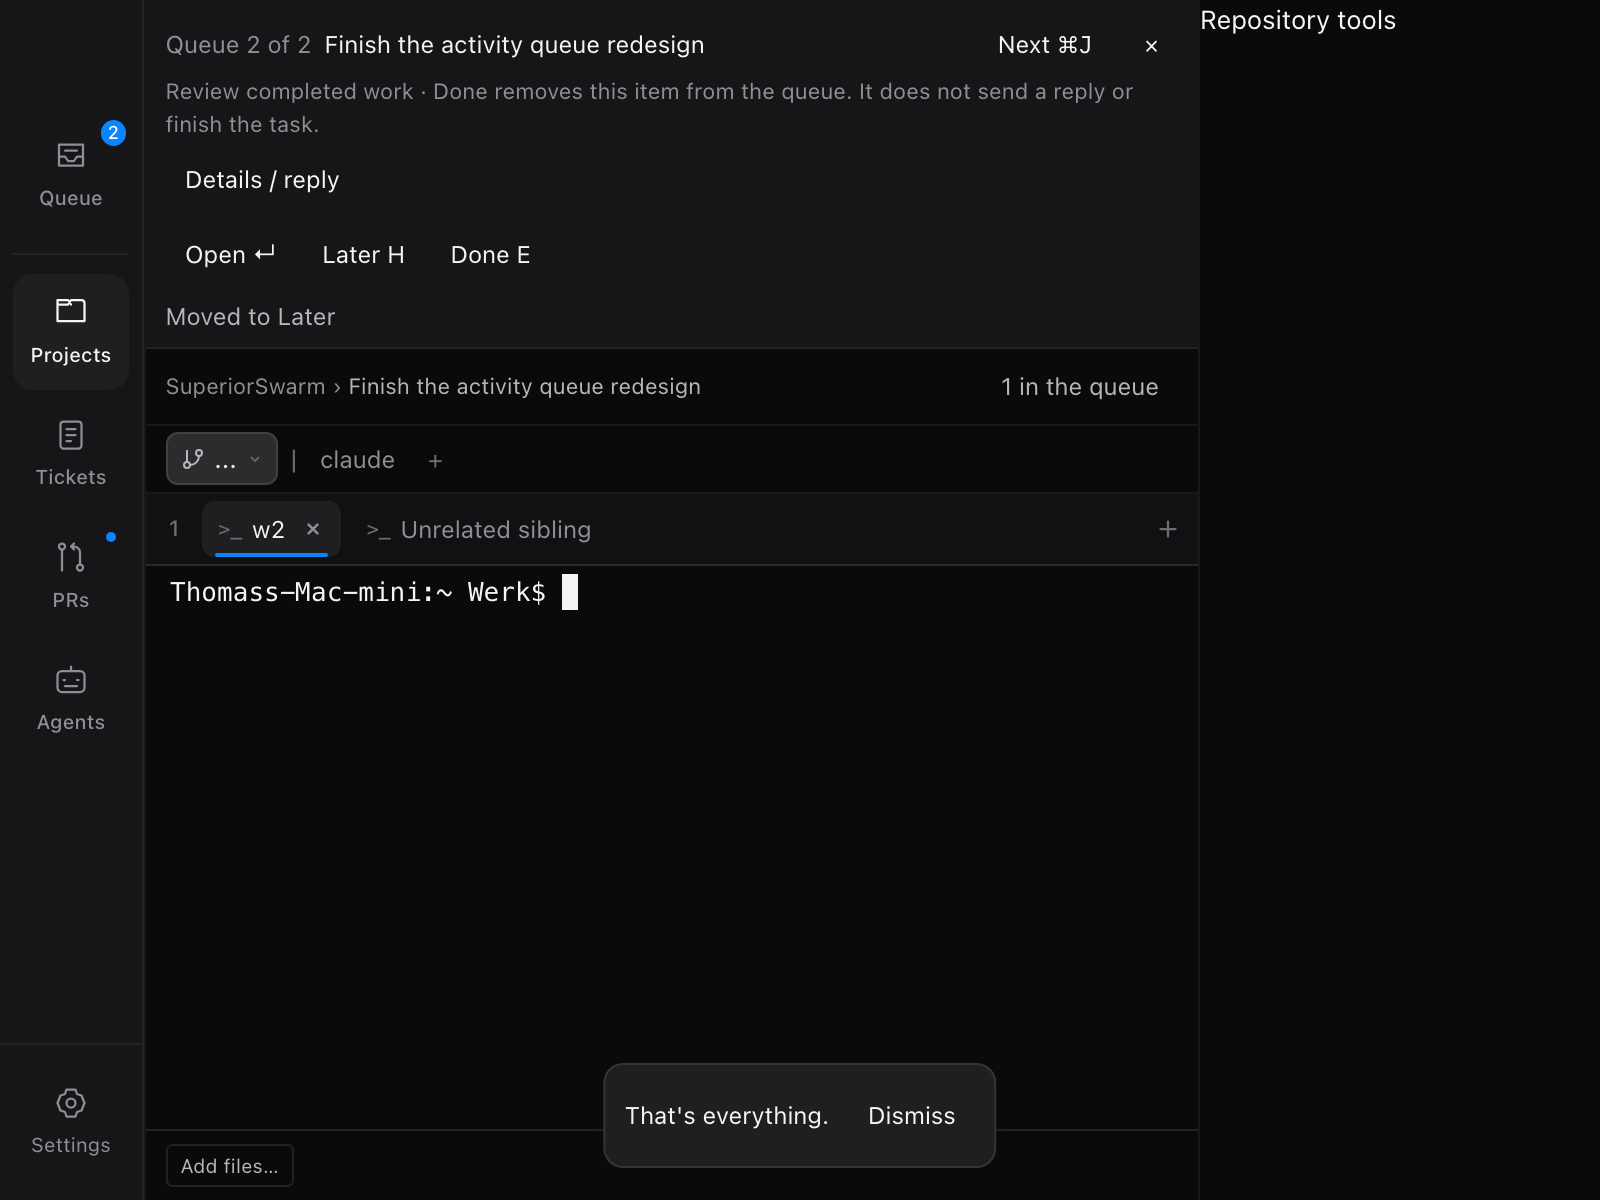
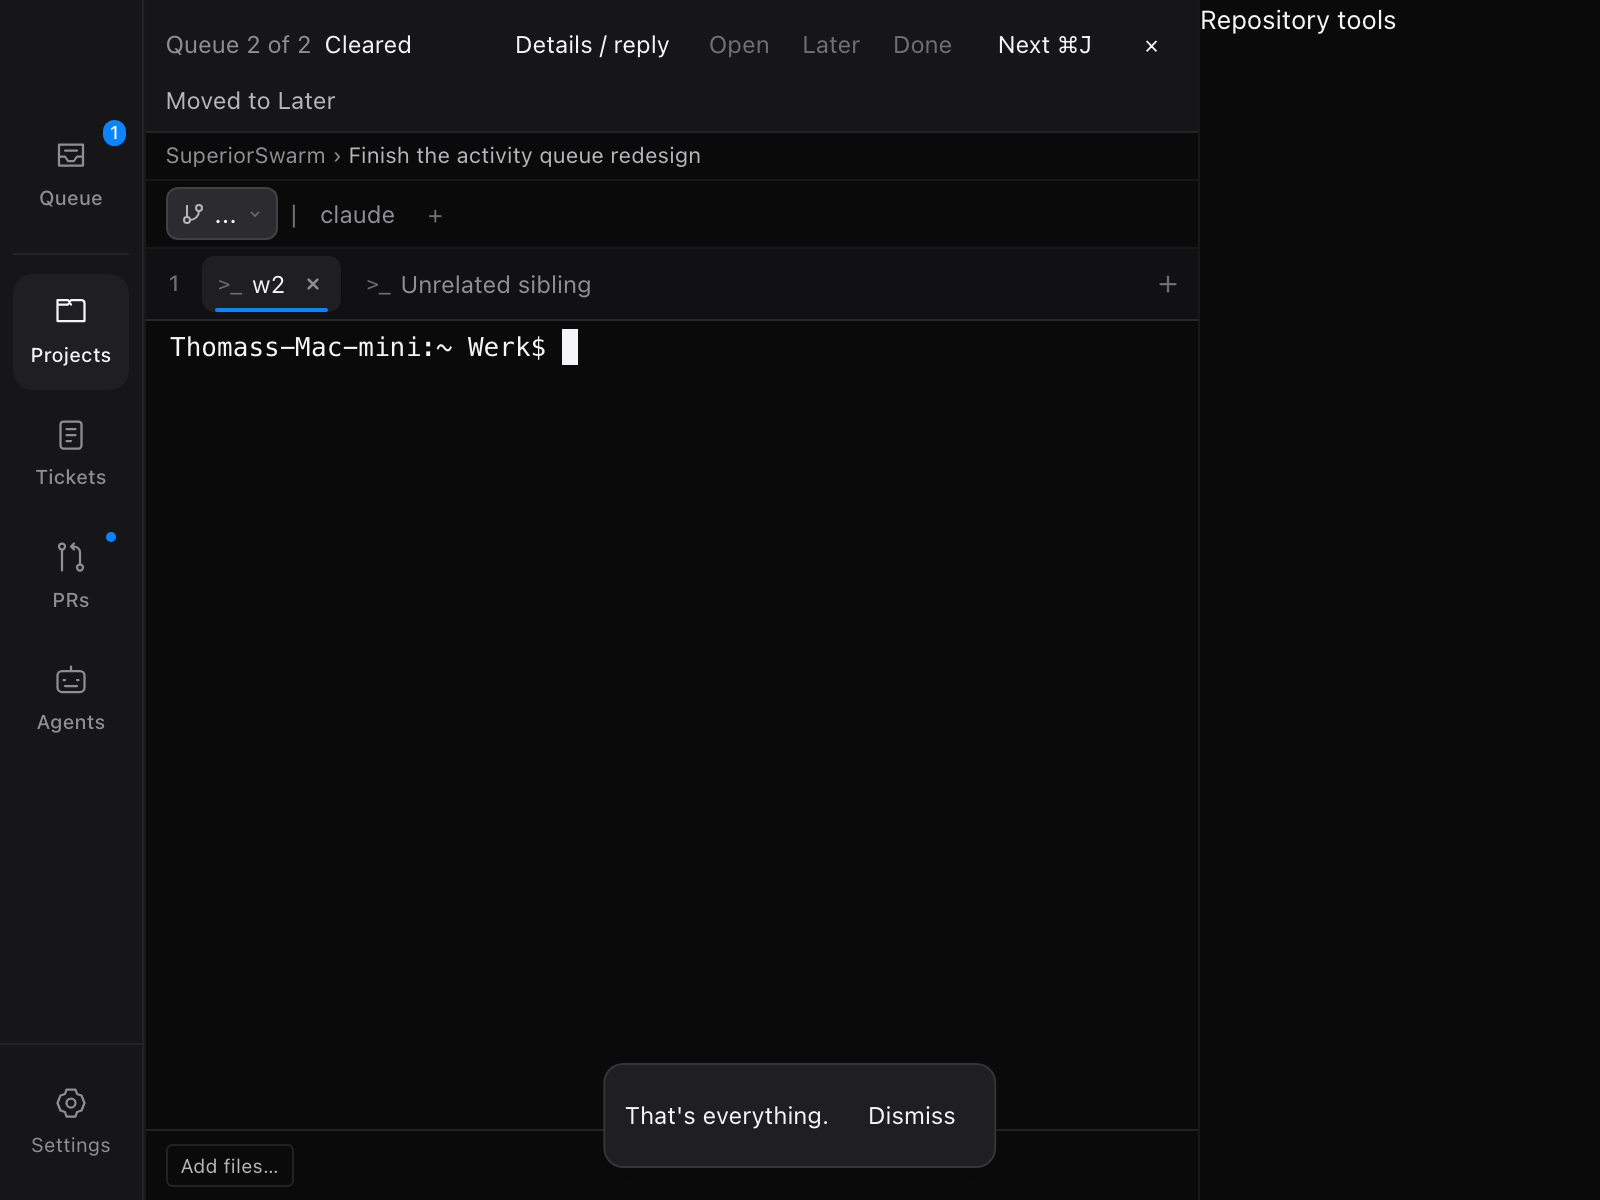
test(queue): publish final compact toolbar and permission navigation evidence

diff --git a/.hermes/verification/queue-jump-peek-2026-11-21/README.md b/.hermes/verification/queue-jump-peek-2026-11-21/README.md
@@ -1,21 +1,22 @@
 # Lane B — exact queue jump, peek and workspace header
 
-Implemented on `feat/queue-jump-peek`, base `89894806`. Owned source commits: `abf07628`, `9e131bde`. No push/release. Parent integrates locally and independently verifies the combined lanes.
+Implemented on `feat/queue-jump-peek`, base `89894806`. Owned implementation commits: `abf07628`, `9e131bde`, `fd9a30ed`, `30b17155`. Owned fixture/log/docs commits: `11d0f428`, `ef2e157c`, `30214f72`, `35aa6fd3`; the final evidence refresh follows these. No push/release. Parent integrates locally and independently verifies the combined lanes.
 
 ## Behavior and contracts
 
 - `queue.next` is Cmd/Ctrl+J; `queue.peek` is Cmd/Ctrl+Shift+J. Core action and Electron menu source inspection found no existing chord registration. Existing Cmd/Ctrl+1…4 and sidebar shortcuts remain intact; shifted uppercase key events match correctly. Repeated queue keydown events do not cause repeated navigation.
 - One canonical `useWorkspaceQueue` query cache supplies pending rows/counts. Later and acknowledged items are excluded. A navigation session pins a cloned exact item, target and all group member revisions. A refresh never advances or silently adopts a new occurrence. Next stops at the end; a removed current item remains an ordering anchor so its shifted successor is not skipped.
 - `useQueueNavigationStore.select(item, pendingItems)` is the QueueView Open seam owned/wired by A. Later/absent occurrences do not establish a pending navigation session.
-- Navigation uses existing `openQueueTarget` and its exact entity/terminal/provider/conversation checks, plus attach-existing-only intent. It cannot acknowledge or write input. Query failure/stale status preserves the current destination and explains retry.
+- Navigation calls A's `openQueueItem` wrapper: an explicitly opened live permission wait must first return confirmed `opened`, then existing `openQueueTarget` validates exact entity/terminal/provider/conversation with attach-existing-only intent. It does not approve/deny, acknowledge or write input. Passive viewing/selection never calls this wrapper. Query failure/stale status preserves the current destination and explains retry.
+- The collapsed QueueBar is a compact toolbar plus one secondary explanation line; native validation requires at most 80 CSS pixels at the wide size. Detail/reply expansion gets a separate block. Compact buttons have no unsafe letter-key hints; duplicate workspace/chat breadcrumbs are suppressed.
 - QueueBar is visible only for the matching entity and visible chat, with the current provider conversation independently checked. A sibling or replacement conversation cannot inherit the old bar. Missing-owner workspace targets cannot present a bar over an arbitrary chat. Done/Later/Undo carry exact grouped receipts; direct reply and permission capability/transport belong to A/C through shared `QueueItemActions`.
 - Peek owns plain keys and focus; input/composition suppresses letter actions. Escape restores origin focus; successful navigation/Queue opening suppresses restoration so the destination owns focus. Details and replies scroll at narrow sizes without collapsing rows. Header count scopes Peek to the exact entity and does not change receipts.
 - `QueueWorkspaceHeader` uses the parent's `workspaceLinkedContext` query/component. Explicit linked tickets/PRs are read-time display enrichment. Coordinators do not inherit child project links. Structured answer input IDs can be made unique through the optional `QueueQuestionReply.inputId` prop; its default preserves existing callers/tests.
 
 ## Verification
 
-- `renderer-regressions.log`: **87 tests / 311 assertions passed** across navigation model, core shortcuts, Peek focus/typing, existing QueueView/question reply, exact navigation, shared conversation reply UI and linked context.
-- `backend-regressions.log`: **55 tests / 765 assertions passed**, covering workspace receipts, current inventory, entity ownership, exact inbox scope and conversation replies.
+- `renderer-regressions.log`: **93 tests / 318 assertions passed** across navigation model, core shortcuts, Peek focus/typing, existing QueueView/question reply, exact navigation, shared conversation reply UI and linked context.
+- `backend-regressions.log`: **67 tests / 860 assertions passed**, covering workspace receipts, current inventory, entity ownership, exact inbox scope and conversation replies.
 - `build.log`: desktop production build passed.
 - Changed renderer files and native fixture/test files have no TypeScript diagnostics in the renderer/test project checks. The overall repository typecheck remains nonzero with unrelated/pre-existing and peer-owned diagnostics; no globally clean typecheck claim is made.
 - Biome reports no errors for owned changes. Some pre-existing/new test non-null assertion warnings remain in `queue-jump.test.tsx`; production code has no new warning reported. `git diff --check` passed. Graphify invocation and normal commit hooks report the known missing module; nothing was installed or bypassed.
@@ -30,19 +31,19 @@ SS_KEEP_QUEUE_FIXTURE=1 bun test tests/queue-jump-electron.test.ts
 
 Obtain the exclusive GUI slot before running. The fixture mounts real MainContentArea, MainLayout, Sidebar, QueueView and xterm, using production preload/tRPC, native SQLite and real isolated PTYs. Temporary profile, sockets, folders and terminal inventory are isolated. The database path is asserted beneath the temporary fixture root **before migration**, and the full router is dynamically loaded afterward. No running app is terminated. Only fixture-owned processes are disposed.
 
-`native-green.log`: passed in **34.42 seconds** (two outer assertions; substantive assertions execute inside Electron). Verified:
+`native-green.log`: passed in **36.62 seconds** (two outer assertions; substantive assertions execute inside Electron). Verified:
 
 1. Jump from Queue selects the reporting chat, not its active sibling; terminal-origin Cmd/Ctrl chords navigate/peek without PTY input.
 2. Open/peek/typing/context refresh preserve source receipts. Background polling discovers changed revisions without moving the user. Old actions disable until explicit selection.
 3. Escape restores exact origin focus; opening the coordinator from Peek focuses its own xterm rather than the previous chat.
-4. Peek row geometry stays at least 40px and visible at 800px and 1440px; dialog fits the viewport. Header linked-work popup is actually open, in bounds and hit-testable.
+4. Peek row geometry stays at least 40px and visible at 800px and 1440px; dialog fits the viewport. The wide collapsed toolbar is at most 80 CSS pixels tall. Header linked-work popup is actually open, in bounds and hit-testable.
 5. Full QueuePanel, header and Peek display explicit Linear UUID-backed SUP-46 and a provider/repository-qualified PR; metadata refresh preserves source revisions.
 6. A structured answer is saved exactly once, is invisible to the sibling inbox and is retrieved by the exact reporting conversation. This proves transport retrieval, not model comprehension.
 7. Clearing the current question does not skip the shifted successor. Grouped Done clears every member; Undo restores; Later is excluded; timed expiry returns through background polling without navigation; Next stops at the end.
 8. Coordinator navigation retains its own entity/chat. Replacing its provider conversation removes the old bar.
 9. **Zero post-seed replacement terminal creates and zero PTY writes** during these actions; original terminal inventory survives. The explicit additional coordinator PTY is fixture setup, excluded from the replacement counter.
 
-`result.json` stores the semantic outcome. These synthetic provider registrations are intentionally labeled stand-ins. Actual Claude/Codex direct-input and permission decisions belong to A/C's separately labeled live evidence; this lane does not claim those capabilities or permission outcomes from its navigation test.
+`result.json` stores the semantic outcome. The final run includes the permission-aware Open adapter and compact toolbar; its permission source remains a stand-in without a held hook. A focused red/green hook regression separately proves exact release before navigation, no release on passive mount/peek, and no navigation on uncertain or unavailable release. `queue-jump-permission-open.test.tsx` runs its three transport-mocked cases in a subprocess, so its mocks cannot affect other tests. The initial red trace called only `navigate, focus`; green calls `capability, release, navigate, focus` with every group member receipt preserved. A fixed stale capability binding and unavailable-release bug found during B's read-only integration review. These synthetic provider registrations are intentionally labeled stand-ins. Actual Claude/Codex direct-input and permission decisions belong to A/C's separately labeled live evidence; this lane does not claim those capabilities or permission outcomes from its navigation test.
 
 ### Red evidence and corrections
 
@@ -60,6 +61,13 @@ Obtain the exclusive GUI slot before running. The fixture mounts real MainConten
 | A `984f77ba` | `d07144eb` |
 | A `1854ec3a` | `efa9e6d2` |
 | A `4d62bba4` | `9753c455` |
+| C `03d5f7cc` | `241ac179` |
+| C `51b3fa02` | `5d7e3f4f` |
+| C `8f9b2ffa` | `5494d37d` |
+| A `7cc5868f` | `f167dd2c` |
+| A `2fbb67c4` | `11f950d9` |
+| A `b277d8f2` | `b4c01410` |
+| A `48586058` | `e00a3300` |
 
 Later A/C capability or transport changes should be integrated by the parent through the shared `QueueItemActions` API; B does not invent permission transport. No arbitrary input is sent to shell stand-ins. Native fixtures are evidence for the tested source, not installed-app deployment or shared-database policy changes.
 
